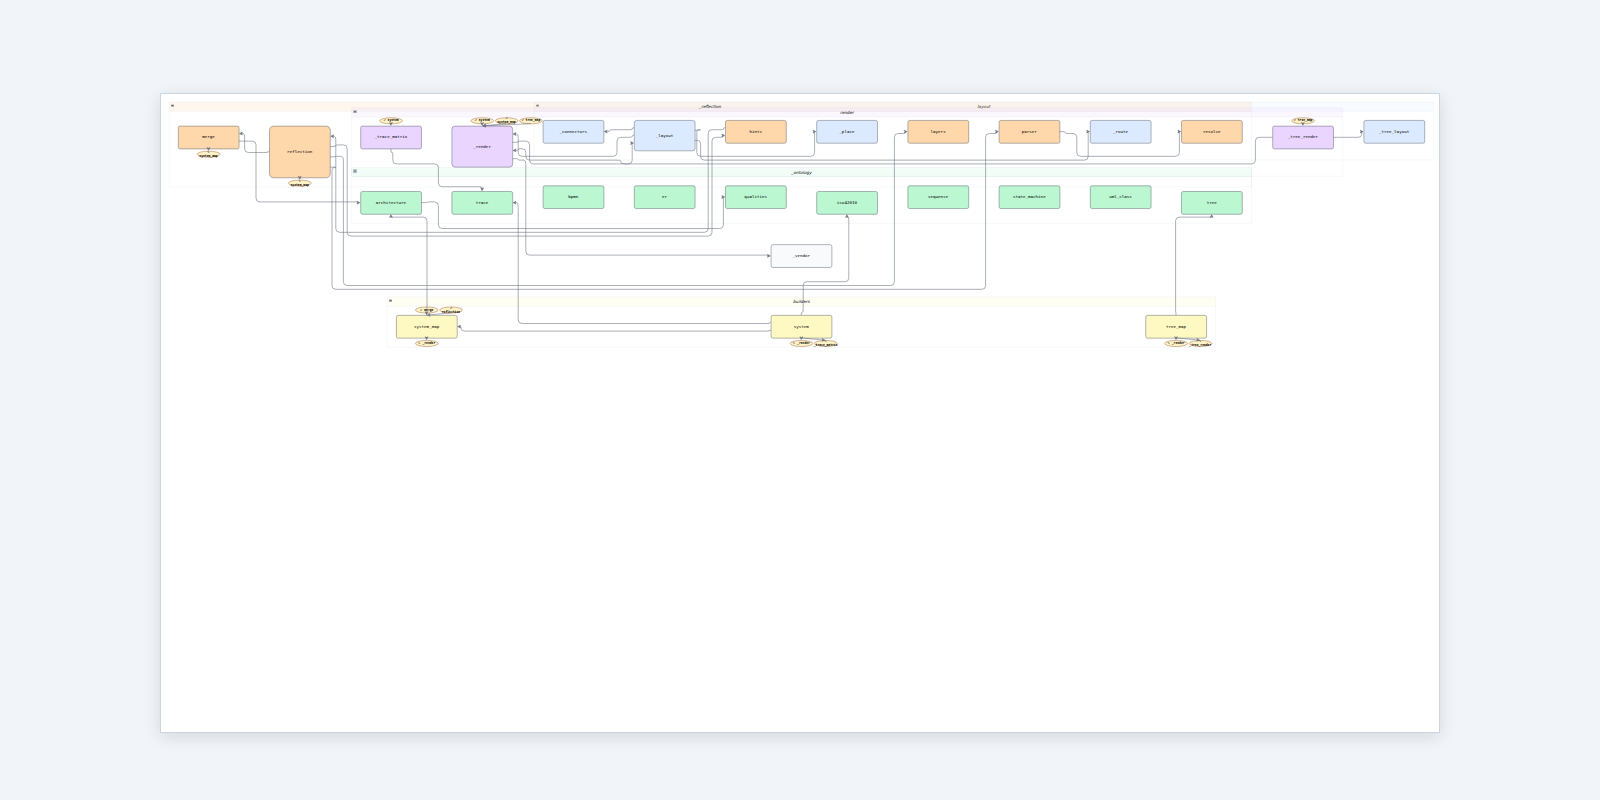
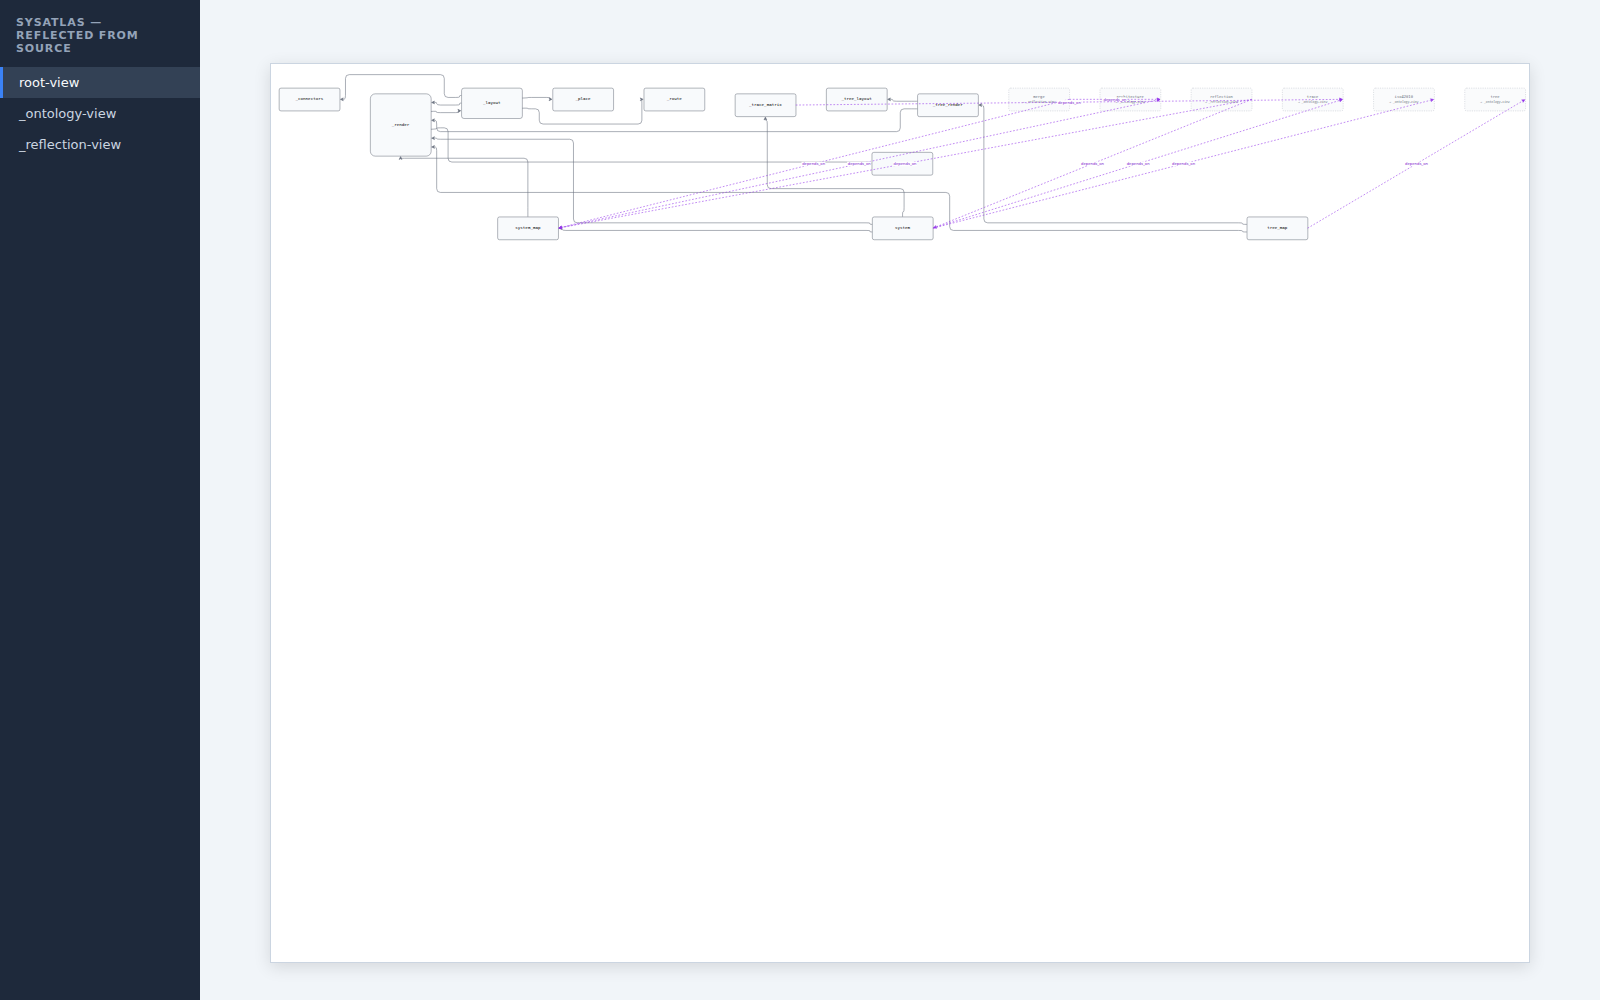
Reflection: multi-view by default (to_system per package)
The single-canvas to_system_map() violates sysatlas's own bounded-
complexity principle on its own source (~25 modules). Add to_system()
that returns a System with one view per top sub-package; cross-package
imports become depends_on trace links between views, rendered as
post-layout dashed overlay edges within each view.

Demo switched to to_system. Root-view density is now bounded;
_ontology-view and _reflection-view each fit on their own tab.

diff --git a/sysatlas/_reflection/reflection.py b/sysatlas/_reflection/reflection.py
@@ -114,6 +114,55 @@ class Reflection:
         reflected = self.to_system_map(title=title)
         return merge_overlay(reflected, overlay)
 
+    def to_system(self, title: str = ""):
+        """Multi-view reflection: one view per top sub-package.
+
+        Returns a `sysatlas.System`. Each top sub-package (the second
+        dotted segment, e.g. `_ontology`, `_reflection`) becomes its
+        own view; top-level modules go in a `root` view. Cross-package
+        imports become `depends_on` trace links between views.
+        """
+        from sysatlas.system import System
+
+        s = System(title=title or f"reflection: {Path(self._graph.root).name}")
+        s.viewpoint("module", model_kinds=["architecture"])
+
+        kept = self._kept_modules()
+        kept_names = {mod.name for mod in kept}
+
+        buckets: dict[str, list] = {}
+        for mod in kept:
+            parts = mod.name.split(".")
+            bucket = parts[1] if len(parts) >= 3 else "root"
+            buckets.setdefault(bucket, []).append(mod)
+
+        local_name: dict[str, tuple[str, str]] = {}
+        for bucket, mods in buckets.items():
+            m = s.architecture_model(bucket)
+            for mod in mods:
+                disp = self._display_name(mod.name)
+                m.add_component(disp, layer=self._layer_for(mod.name), tech=mod.name)
+                local_name[mod.name] = (bucket, disp)
+
+        for mod in kept:
+            src_bucket, src_disp = local_name[mod.name]
+            for imp in mod.imports:
+                if imp not in kept_names:
+                    continue
+                tgt_bucket, tgt_disp = local_name[imp]
+                if src_bucket == tgt_bucket:
+                    s._architecture_models[src_bucket].connect(src_disp, tgt_disp)
+                else:
+                    s.trace(
+                        f"{src_bucket}#{src_disp}",
+                        f"{tgt_bucket}#{tgt_disp}",
+                        kind="depends_on",
+                    )
+
+        for bucket in buckets:
+            s.view(f"{bucket}-view", viewpoint="module", models=[bucket])
+        return s
+
 
 def reflect(path: str | Path, hints: Hints | None = None) -> Reflection:
     """Scan a Python source tree and return a Reflection.

diff --git a/docs/reflection/module-map.py b/docs/reflection/module-map.py
@@ -4,6 +4,11 @@ Backward flow end-to-end. AST-only — no execution of the scanned tree.
 Demonstrates the loop a coding assistant should run after any structural
 change: reflect the source, save the diagram, commit it.
 
+Uses `to_system(...)` (multi-view) rather than `to_system_map()` —
+sysatlas's own bounded-complexity principle says ~25 modules don't fit
+on a single canvas. One view per top sub-package; cross-package imports
+become depends_on trace links between views.
+
 Run: python docs/reflection/module-map.py
 """
 from pathlib import Path
@@ -14,10 +19,7 @@ REPO = Path(__file__).resolve().parents[2]
 SOURCE = REPO / "sysatlas"
 OUT = Path(__file__).with_suffix(".html")
 
-r = (
-    sysatlas.reflect(SOURCE)
-    .exclude("LLM_GUIDE.md", "__init__.py", "_ontology/__init__.py")
-)
-m = r.to_system_map(title="sysatlas — reflected from source")
-m.save(str(OUT))
+r = sysatlas.reflect(SOURCE)
+s = r.to_system(title="sysatlas — reflected from source")
+s.save(str(OUT))
 print(f"[sysatlas] wrote {OUT}")